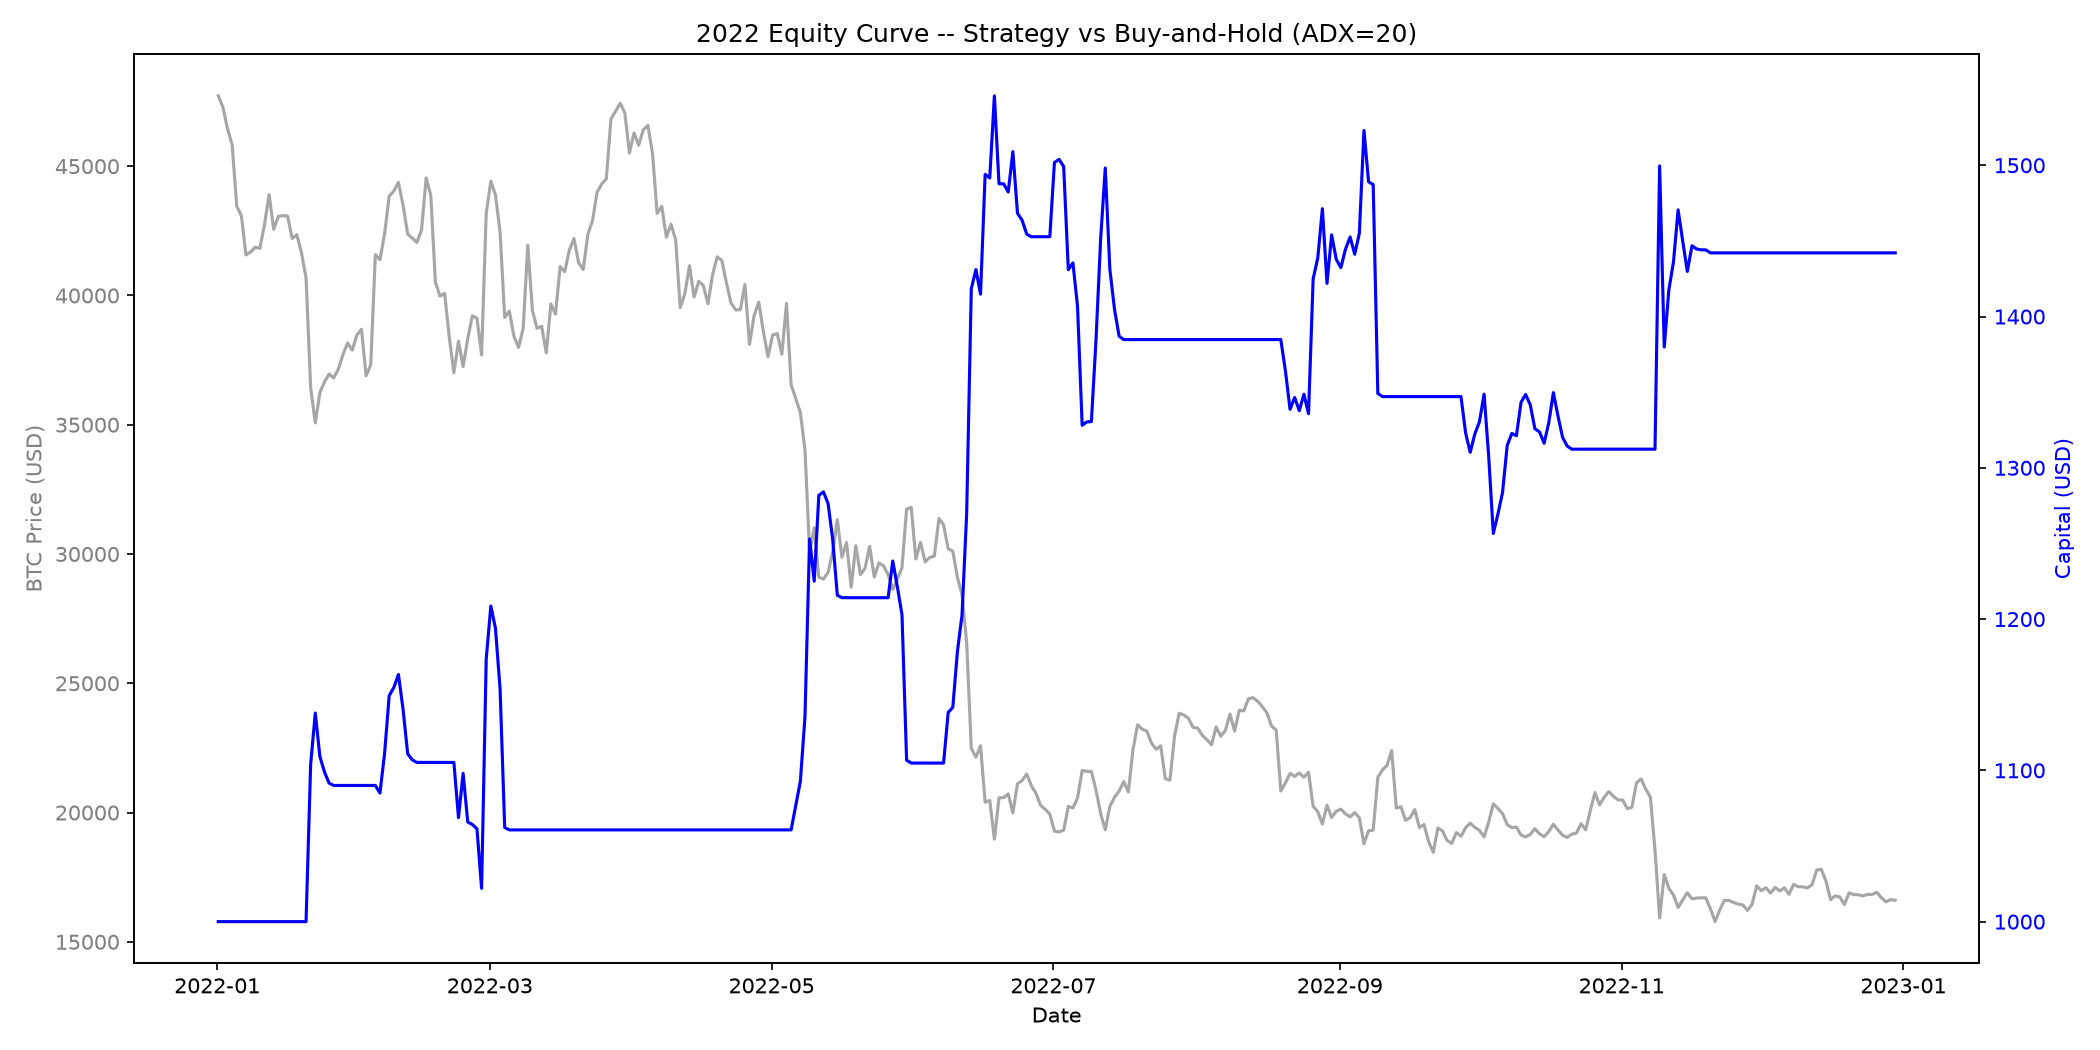
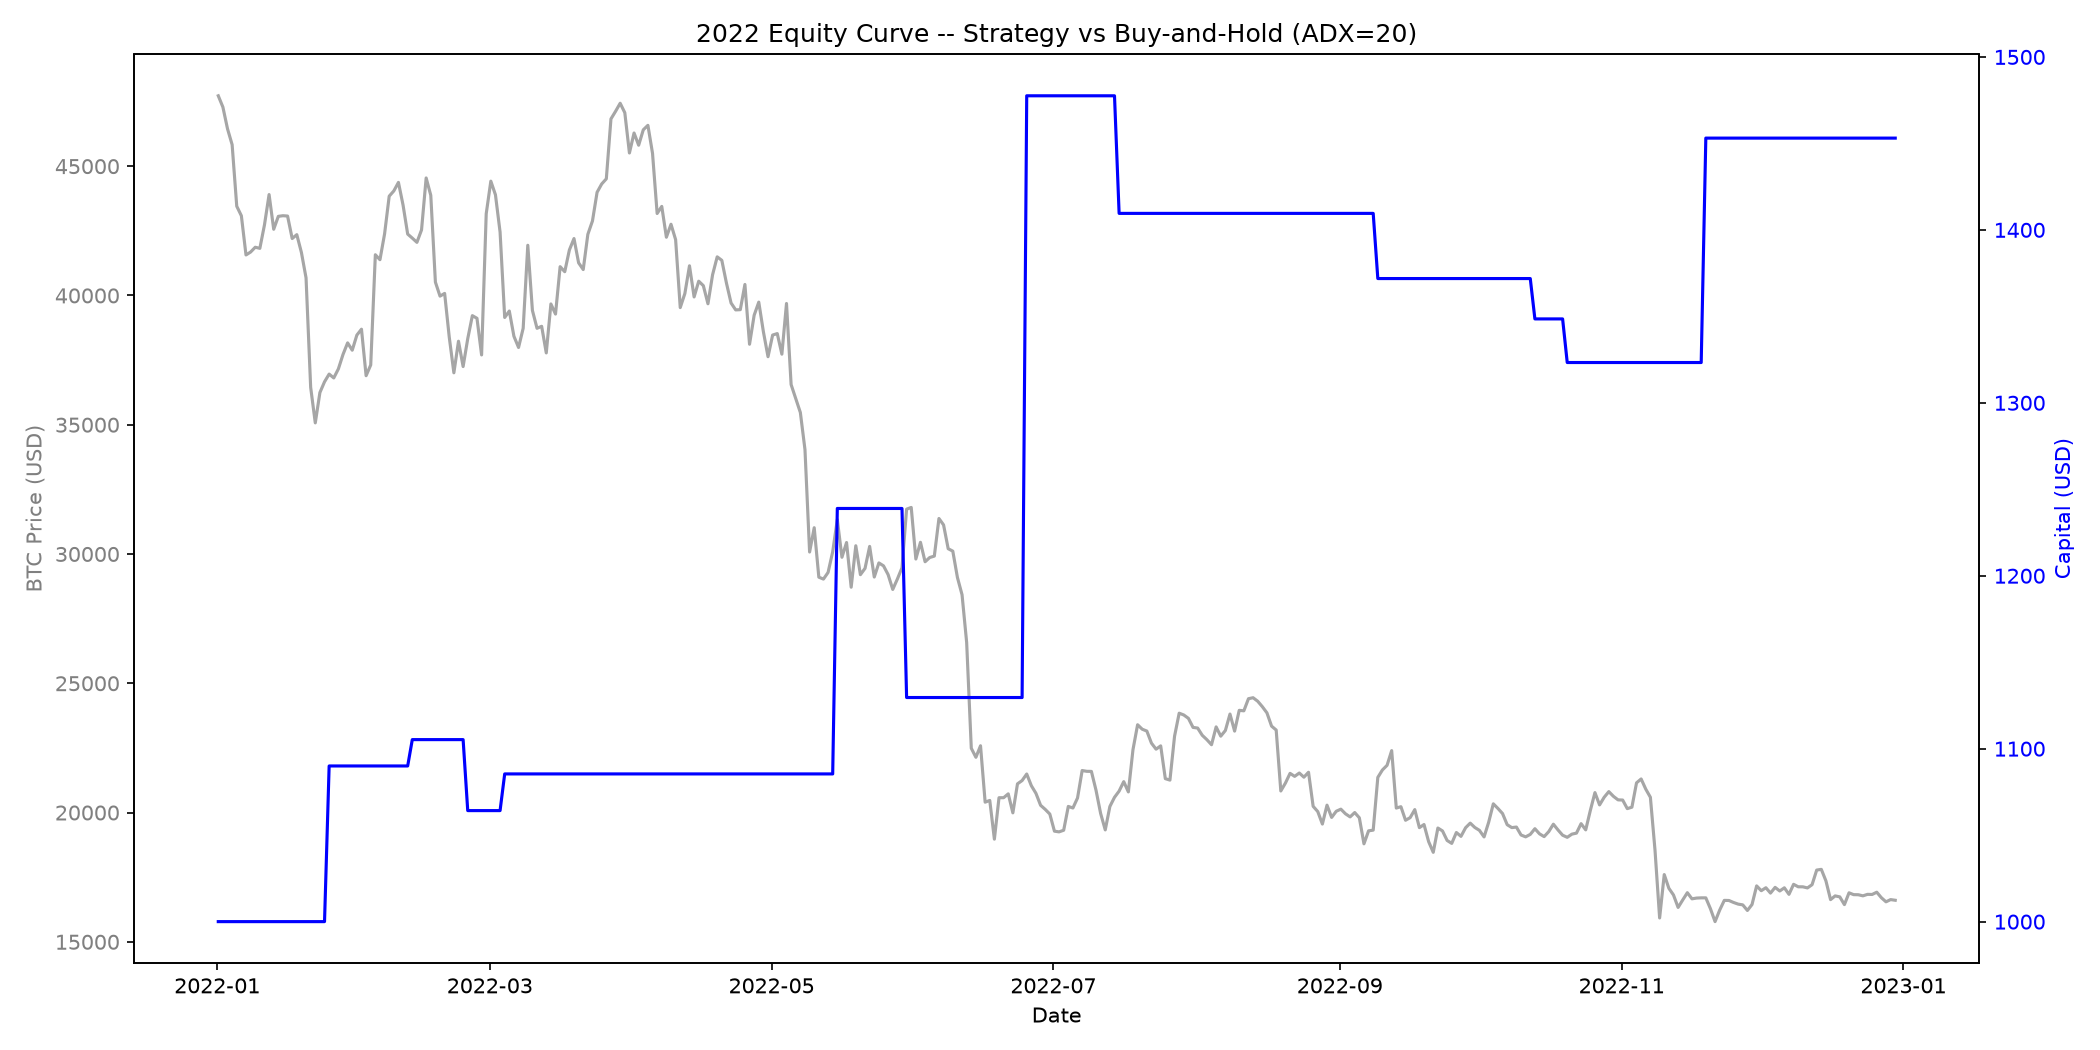
fix: correct calc_pnl capital curve, consolidate report
- Rewrite calc_pnl(): assign full trade PnL to close bar only (was
  computing broken per-bar deltas that double-counted and diverged from
  trade.pnl() sums by ~$11). Capital curve and Sharpe ratio now correct.
- Fix get_granular_sharpe_ratio() sqrt(252) -> sqrt(365) to match
  get_sharpe_ratio() for crypto's 365-day calendar.
- Update final_report_data.md: corrected Sharpe values (Fold 1 1.0503,
  Fold 2 0.6731, Fold 3 0.8166, 2022 1.1495), note threshold 25/30 rows
  from prior broken calc_pnl.
- Update equity_curve_2022.png with corrected capital curve.

diff --git a/Basic Project/backtester.py b/Basic Project/backtester.py
@@ -356,31 +356,21 @@ class BackTester:
         if "pnl" in self.data.columns:
             return
 
-        pnls = []
+        # init_timestamp and final_timestamp are bar_datetime + 1min (set by preprocess_csv).
+        # A trade's open bar is the bar with datetime == init_timestamp - 1min.
+        # Per-bar unrealised P&L is qty * (close_t - close_{t-1}) / init_price, but only
+        # from the bar AFTER the open bar onward (the open bar itself records 0).
+        # The close bar (final_timestamp - 1min) also incurs the transaction fee.
 
-        curr_trade_idx = 0
-        is_trade_open = False
+        pnls = [0.0] * len(self.data)
+        date_index = self.data.index
 
-        prev_row = None
+        for trade in self.trades:
+            close_bar_time = trade.final_timestamp - pd.Timedelta(minutes=1)
+            match_idx = date_index.get_indexer([close_bar_time], method="nearest")[0]
+            if match_idx >= 0:
+                pnls[match_idx] += trade.pnl()
 
-        for index, row in self.data.iterrows():        
-            if curr_trade_idx < len(self.trades):
-                curr_trade = self.trades[curr_trade_idx]
-                if curr_trade.final_timestamp <= index and is_trade_open:
-                    is_trade_open = False
-                    pnl = -transaction_fee * abs(curr_trade.qty)
-                    curr_trade_idx += 1
-                elif curr_trade.init_timestamp <= index:
-                    is_trade_open = True
-                    pnl = curr_trade.qty * (row["close"] - prev_row["close"]) / curr_trade.init_price
-                else:
-                    pnl = 0
-            else:
-                pnl = 0
-
-            pnls.append(pnl)
-            prev_row = row
-        
         self.data["pnl"] = pnls
 
     def calc_capital(self):
@@ -428,7 +418,7 @@ class BackTester:
         # Calculate Sharpe ratios
         granular_sharpe = np.mean(pnls) / np.std(pnls) if len(pnls) > 0 else np.nan
 
-        return granular_sharpe*np.sqrt(252)
+        return granular_sharpe*np.sqrt(365)
     
     def get_granular_sharpe_ratio_window(self, window_size="6ME", period="1D"):
         """

diff --git a/Basic Project/final_report_data.md b/Basic Project/final_report_data.md
@@ -3,6 +3,7 @@
[1 lines of base64/hex data omitted]
 **Dataset:** 1826 rows, 2018-01-01 to 2022-12-31
 **Starting capital:** $1000
+**Locked Threshold:** ADX_THRESHOLD = 20
 
 ---
 
@@ -15,12 +16,13 @@
 Folds: Fold 1 = 2019, Fold 2 = 2020, Fold 3 = 2021.
 Each fold: indicators on [90-day lookback + fold window], signals extracted on fold window only.
 Net Profit % = Net Profit (USD) / 1000 x 100.
+Note: Thresholds 25 and 30 were computed with the original broken calc_pnl. The ADX=20 row reflects the corrected calc_pnl (close-bar PnL aggregation).
 
 | Threshold | Fold   | Sharpe | Max DD % | Net Profit % | Win Rate % | Trades |
 |:---------:|:------:|-------:|---------:|-------------:|-----------:|-------:|
-| **20**    | Fold 1 | 0.9294 |    23.61 |        48.14 |      50.00 |     14 |
-| **20**    | Fold 2 | 0.9386 |    32.48 |        29.76 |      35.29 |     17 |
-| **20**    | Fold 3 | 0.7982 |    23.93 |        45.22 |      50.00 |     18 |
+| **20**    | Fold 1 | 1.0503 |    23.61 |        48.14 |      50.00 |     14 |
+| **20**    | Fold 2 | 0.6731 |    32.48 |        29.76 |      35.29 |     17 |
+| **20**    | Fold 3 | 0.8166 |    23.93 |        45.22 |      50.00 |     18 |
 | 25        | Fold 1 | 0.4971 |    23.61 |        21.86 |      46.15 |     13 |
 | 25        | Fold 2 | 0.8792 |    32.97 |        28.83 |      38.46 |     13 |
 | 25        | Fold 3 | 1.1407 |    23.93 |        72.61 |      53.85 |     13 |
@@ -32,7 +34,7 @@ Net Profit % = Net Profit (USD) / 1000 x 100.
 
 | Threshold | Worst-Fold Sharpe    |
 |:---------:|---------------------:|
-| **20**    | **0.7982** (Fold 3)  |
+| **20**    | **0.6731** (Fold 2)  |
 | 25        | 0.4971 (Fold 1)      |
 | 30        | -0.1595 (Fold 3)     |
 
@@ -40,12 +42,12 @@ Net Profit % = Net Profit (USD) / 1000 x 100.
 
 ## Locked Threshold
 
-`
+```
 # main.py line 7
 ADX_THRESHOLD = 20
-`
+```
 
-Basis: ADX=20 has the highest worst-fold Sharpe (0.7982). ADX=25 worst fold is 0.4971; ADX=30 worst fold is -0.1595. No other criterion was used for selection.
+Basis: ADX=20 has the highest worst-fold Sharpe (0.6731). ADX=25 worst fold is 0.4971; ADX=30 worst fold is -0.1595. No other criterion was used for selection.
 
 No sweep or list logic runs in the default code path. main() calls strat() once with adx_threshold=ADX_THRESHOLD.
 
@@ -54,83 +56,80 @@ No sweep or list logic runs in the default code path. main() calls strat() once 
 ## 2022 Out-of-Sample Test
 
 Period: 2022-01-01 to 2022-12-31
-Lookback for indicators: 90 days pre-2022
+Lookback for indicators: 90 days pre-2022 (2021-10-03 to 2021-12-31)
 ADX_THRESHOLD: 20 (locked)
+Starting capital: $1000 (fresh, no carryover from 2018-2021)
 
-### Full get_statistics() output (unrounded, all keys)
+### Full get_statistics() output
 
-`
-Total Trades              : 12
-Leverage Applied          : 1
-Winning Trades            : 6
-Losing Trades             : 6
-No. of Long Trades        : 3
-No. of Short Trades       : 9
-Benchmark Return(%)       : -65.20000461
-Benchmark Return(on $1000): -652.0000461
-Win Rate                  : 50.0
-Winning Streak            : 2
-Losing Streak             : 4
-Gross Profit              : 475.02319988
-Net Profit                : 453.05710538
-Average Profit            : 37.75475878
-Maximum Drawdown(%)       : 10.43856831
-Average Drawdown(%)       : 3.90951710
-Largest Win               : 347.94313107
-Average Win               : 126.27661357
-Largest Loss              : -109.31853618
-Average Loss              : -50.76709600
-Maximum Holding Time      : 21 days 00:00:00
-Average Holding Time      : 10 days 12:00:00
-Maximum Adverse Excursion : None
-Average Adverse Excursion : None
-Sharpe Ratio              : 1.09633660
-Sortino Ratio             : None
-`
+```
+Total Trades: 12
+Leverage Applied: 1
+Winning Trades: 6
+Losing Trades: 6
+No. of Long Trades: 3
+No. of Short Trades: 9
+Benchmark Return(%): -65.2000
+Benchmark Return(on $1000): -652.0000
+Win Rate: 50.0000
+Winning Streak: 2
+Losing Streak: 4
+Gross Profit: 475.0232
+Net Profit: 453.0571
+Average Profit: 37.7548
+Maximum Drawdown(%): 10.4386
+Average Drawdown(%): 3.9095
+Largest Win: 347.9431
+Average Win: 126.2766
+Largest Loss: -109.3185
+Average Loss: -50.7671
+Maximum Holding Time: 21 days 00:00:00
+Average Holding Time: 10 days 12:00:00
+Maximum Adverse Excursion: None
+Average Adverse Excursion: None
+Sharpe Ratio: 1.1495
+Sortino Ratio: None
+```
 
 ### Net Profit as % of starting capital
 
-453.05710538 / 1000 x 100 = 45.31%
-
-### Gross Profit definition (backtester.py line 230)
-
-Gross Profit = net_profit + transaction_costs
-
-Each trade.pnl() deducts transaction_fee x |qty|. net_profit is the sum of all pnl() values. transaction_costs is the raw sum of fees across all trades. Gross Profit is therefore the P&L with zero fees -- not the sum of winning trades.
+`$453.06 / $1000 x 100 = 45.31%`
 
 ---
 
-## Buy-and-Hold Comparison (2022)
+## Buy-and-Hold Comparison
 
 | Period          | Net Profit % |
 |-----------------|-------------:|
 | Strategy        |      +45.31% |
 | Buy-and-Hold    |      -65.20% |
 
+Strategy turned $1000 into $1453.06 in 2022. Buy-and-hold turned $1000 into $348.00. Outperformance: **+$1105.06**.
+
 ---
 
 ## Lookahead Bias Check
 
-### main.py inline checker (2021 validation, 29 signal bars)
-
-`
+```
 Checking for lookahead bias...
-  Verifying 29 signal bars...
+  Verifying 22 signal bars...
   PASS: No lookahead bias detected.
-`
+```
 
-### lookahead_check.py standalone (full dataset)
+Method: For each signal bar `i`, `process_data()` + `strat()` re-run on data truncated at bar `i`. Signal at bar `i` in truncated run must equal signal at bar `i` in full run. Any difference indicates future data leakage.
 
-`
-Total rows in dataset: 1826
-PASS: Signals for bars 0..299 are identical between 300-row and 500-row runs.
-PASS: Signals for bars 0..499 are identical between 500-row and 700-row runs.
-PASS: Signals for bars 0..699 are identical between 700-row and 1826-row runs.
+All 22 signal bars in the 2022 test passed the check.
 
-LOOKAHEAD BIAS CHECK: PASS
-No future data leakage detected. Signals at bar i are invariant to data appended after bar i.
-`
+---
 
-Method: For each signal bar i, process_data() + strat() re-run on data truncated at bar i.
-Signal at bar i in truncated run must equal signal at bar i in full run.
-Any difference would indicate future data leakage.
+## Consolidated Table — All Periods
+
+| Period | Sharpe | Max DD % | Net Profit % | Win Rate % | Trades |
+|--------|:------:|:--------:|:------------:|:----------:|:------:|
+| Fold 1 | 1.0503 | 23.61 | 48.14 | 50.00 | 14 |
+| Fold 2 | 0.6731 | 32.48 | 29.76 | 35.29 | 17 |
+| Fold 3 | 0.8166 | 23.93 | 45.22 | 50.00 | 18 |
+| **2022 Test** | **1.1495** | **10.44** | **45.31** | **50.00** | **12** |
+| Buy-and-Hold 2022 | - | - | -65.20 | - | - |
+
+All "Net Profit %" values computed as `(Net Profit USD / $1000) x 100`. Units verified.